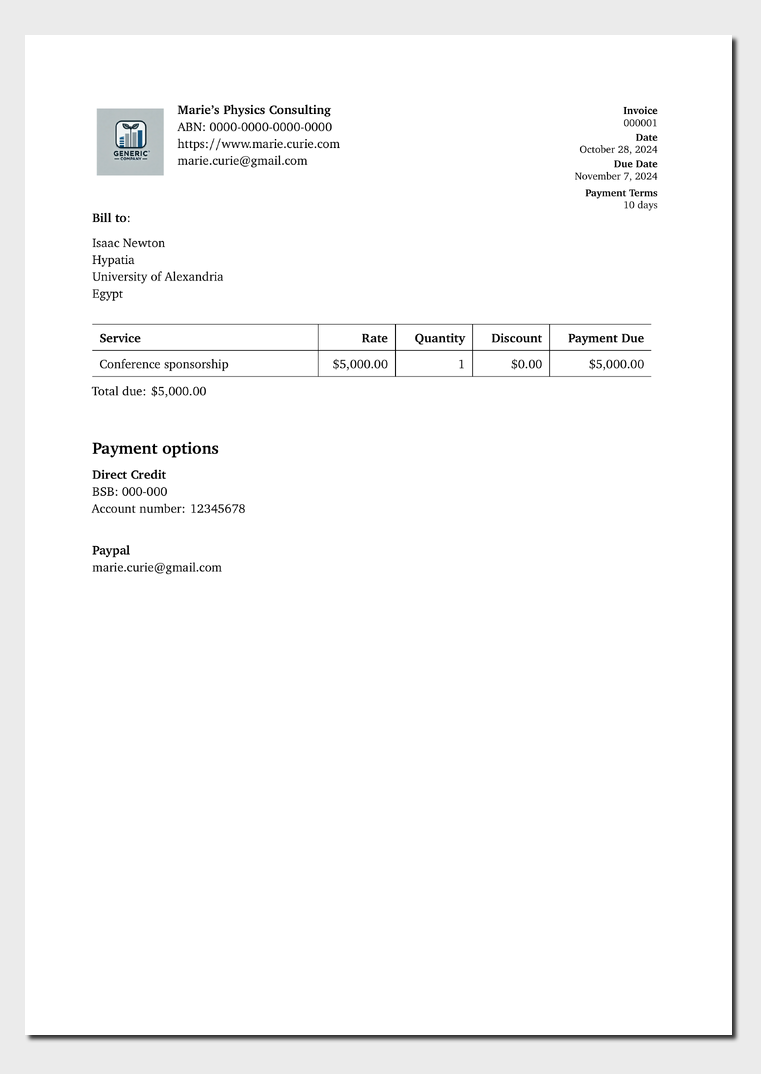
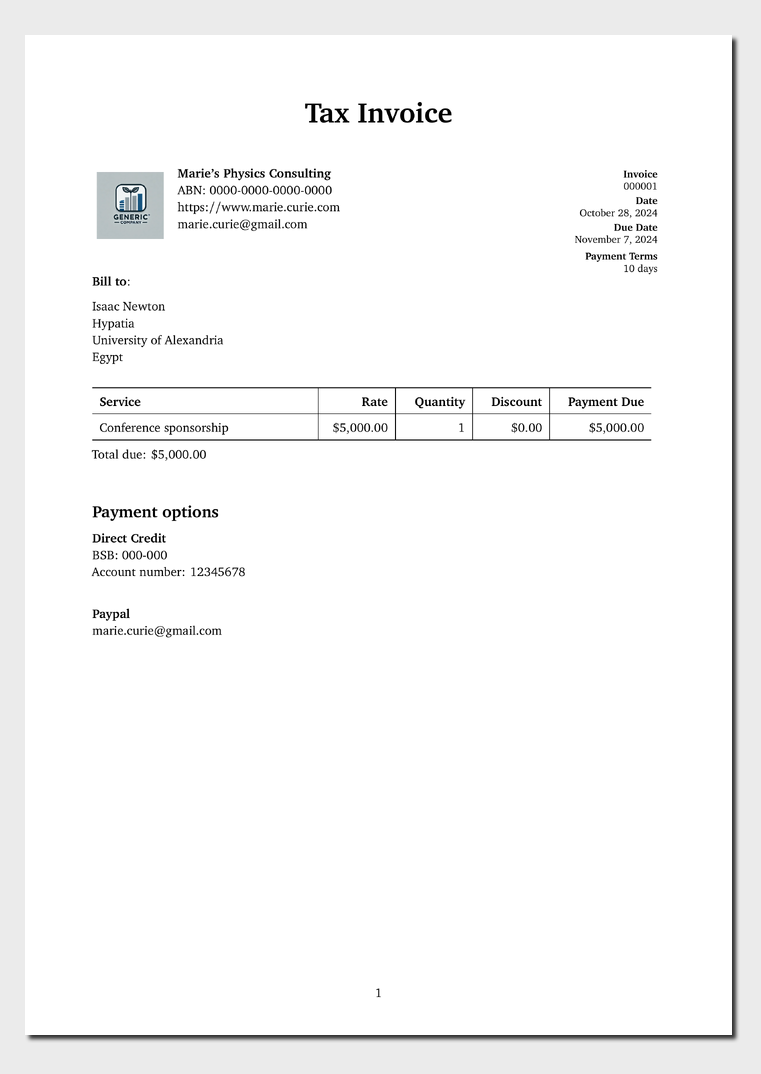
Add title to invoice

Changed region(s): [[0.1209, 0.0922, 0.6045, 0.6145], [0.3929, 0.3073, 0.8463, 0.4302], [0.7556, 0.0922, 0.8765, 0.2765]]

diff --git a/template.tex b/template.tex
@@ -1,0 +1,241 @@
+% Options for packages loaded elsewhere
+\PassOptionsToPackage{unicode}{hyperref}
+\PassOptionsToPackage{hyphens}{url}
+\PassOptionsToPackage{dvipsnames,svgnames,x11names}{xcolor}
+%
+\documentclass[
+  11pt,
+  a4paper,
+]{letter}
+
+\usepackage{amsmath,amssymb}
+\usepackage{iftex}
+\ifPDFTeX
+  \usepackage[T1]{fontenc}
+  \usepackage[utf8]{inputenc}
+  \usepackage{textcomp} % provide euro and other symbols
+\else % if luatex or xetex
+  \usepackage{unicode-math}
+  \defaultfontfeatures{Scale=MatchLowercase}
+  \defaultfontfeatures[\rmfamily]{Ligatures=TeX,Scale=1}
+\fi
+\usepackage{lmodern}
+\ifPDFTeX\else  
+    % xetex/luatex font selection
+\fi
+% Use upquote if available, for straight quotes in verbatim environments
+\IfFileExists{upquote.sty}{\usepackage{upquote}}{}
+\IfFileExists{microtype.sty}{% use microtype if available
+  \usepackage[]{microtype}
+  \UseMicrotypeSet[protrusion]{basicmath} % disable protrusion for tt fonts
+}{}
+\makeatletter
+\@ifundefined{KOMAClassName}{% if non-KOMA class
+  \IfFileExists{parskip.sty}{%
+    \usepackage{parskip}
+  }{% else
+    \setlength{\parindent}{0pt}
+    \setlength{\parskip}{6pt plus 2pt minus 1pt}}
+}{% if KOMA class
+  \KOMAoptions{parskip=half}}
+\makeatother
+\usepackage{xcolor}
+\usepackage[top=2cm,bottom=2cm,left=2cm,right=2cm]{geometry}
+\setlength{\emergencystretch}{3em} % prevent overfull lines
+\setcounter{secnumdepth}{-\maxdimen} % remove section numbering
+% Make \paragraph and \subparagraph free-standing
+\ifx\paragraph\undefined\else
+  \let\oldparagraph\paragraph
+  \renewcommand{\paragraph}[1]{\oldparagraph{#1}\mbox{}}
+\fi
+\ifx\subparagraph\undefined\else
+  \let\oldsubparagraph\subparagraph
+  \renewcommand{\subparagraph}[1]{\oldsubparagraph{#1}\mbox{}}
+\fi
+
+
+\providecommand{\tightlist}{%
+  \setlength{\itemsep}{0pt}\setlength{\parskip}{0pt}}\usepackage{longtable,booktabs,array}
+\usepackage{calc} % for calculating minipage widths
+% Correct order of tables after \paragraph or \subparagraph
+\usepackage{etoolbox}
+\makeatletter
+\patchcmd\longtable{\par}{\if@noskipsec\mbox{}\fi\par}{}{}
+\makeatother
+% Allow footnotes in longtable head/foot
+\IfFileExists{footnotehyper.sty}{\usepackage{footnotehyper}}{\usepackage{footnote}}
+\makesavenoteenv{longtable}
+\usepackage{graphicx}
+\makeatletter
+\def\maxwidth{\ifdim\Gin@nat@width>\linewidth\linewidth\else\Gin@nat@width\fi}
+\def\maxheight{\ifdim\Gin@nat@height>\textheight\textheight\else\Gin@nat@height\fi}
+\makeatother
+% Scale images if necessary, so that they will not overflow the page
+% margins by default, and it is still possible to overwrite the defaults
+% using explicit options in \includegraphics[width, height, ...]{}
+\setkeys{Gin}{width=\maxwidth,height=\maxheight,keepaspectratio}
+% Set default figure placement to htbp
+\makeatletter
+\def\fps@figure{htbp}
+\makeatother
+
+\usepackage{booktabs}
+\usepackage{longtable}
+\usepackage{array}
+\usepackage{multirow}
+\usepackage{wrapfig}
+\usepackage{float}
+\usepackage{colortbl}
+\usepackage{pdflscape}
+\usepackage{tabu}
+\usepackage{threeparttable}
+\usepackage{threeparttablex}
+\usepackage[normalem]{ulem}
+\usepackage{makecell}
+\usepackage{xcolor}
+\makeatletter
+\@ifpackageloaded{caption}{}{\usepackage{caption}}
+\AtBeginDocument{%
+\ifdefined\contentsname
+  \renewcommand*\contentsname{Table of contents}
+\else
+  \newcommand\contentsname{Table of contents}
+\fi
+\ifdefined\listfigurename
+  \renewcommand*\listfigurename{List of Figures}
+\else
+  \newcommand\listfigurename{List of Figures}
+\fi
+\ifdefined\listtablename
+  \renewcommand*\listtablename{List of Tables}
+\else
+  \newcommand\listtablename{List of Tables}
+\fi
+\ifdefined\figurename
+  \renewcommand*\figurename{Figure}
+\else
+  \newcommand\figurename{Figure}
+\fi
+\ifdefined\tablename
+  \renewcommand*\tablename{Table}
+\else
+  \newcommand\tablename{Table}
+\fi
+}
+\@ifpackageloaded{float}{}{\usepackage{float}}
+\floatstyle{ruled}
+\@ifundefined{c@chapter}{\newfloat{codelisting}{h}{lop}}{\newfloat{codelisting}{h}{lop}[chapter]}
+\floatname{codelisting}{Listing}
+\newcommand*\listoflistings{\listof{codelisting}{List of Listings}}
+\makeatother
+\makeatletter
+\makeatother
+\makeatletter
+\@ifpackageloaded{caption}{}{\usepackage{caption}}
+\@ifpackageloaded{subcaption}{}{\usepackage{subcaption}}
+\makeatother
+\ifLuaTeX
+  \usepackage{selnolig}  % disable illegal ligatures
+\fi
+\usepackage{bookmark}
+
+\IfFileExists{xurl.sty}{\usepackage{xurl}}{} % add URL line breaks if available
+\urlstyle{same} % disable monospaced font for URLs
+\hypersetup{
+  pdftitle={Tax Invoice},
+  colorlinks=true,
+  linkcolor={blue},
+  filecolor={Maroon},
+  citecolor={Blue},
+  urlcolor={Blue},
+  pdfcreator={LaTeX via pandoc}}
+
+% LaTeX Simple Invoice Template
+% By Amy Fare | amyfare.ca
+% Source: amyfare.ca/files/simple_invoice_template.tex
+% License: Creative Commons Attribution (CC BY 4.0)
+% Feel free to distribute, modify, and use as you wish, but please keep this line and the 4 lines above unchanged.
+
+\usepackage[utf8]{inputenc}
+\usepackage{graphicx}
+\usepackage{tabularx}
+\usepackage{multirow}
+\usepackage{ragged2e}
+\usepackage{hhline}
+\usepackage{array}
+
+\usepackage{bera,fontawesome}
+\usepackage[charter]{mathdesign}
+\usepackage[lf,t]{FiraSans}
+\usepackage[scale=0.9]{sourcecodepro}
+
+\hypersetup{
+    urlcolor=blue
+}
+
+\newcolumntype{R}[1]{>{\raggedleft\let\newline\\\arraybackslash\hspace{0pt}}m{#1}}
+
+\usepackage{advdate}
+
+
+\newcommand{\Sum}[2]{\the\numexpr #1 + #2 \relax \\}\title{Tax Invoice}
+\author{}
+\date{October 28, 2024}
+
+\begin{document}
+\thispagestyle{empty}
+
+% Header, for company, invoice info
+\begin{tabularx}{\textwidth}{l X l}
+   \hspace{-8pt} \multirow{5}{*}{
+    } & \textbf{Marie's Physics
+Consulting} & \hskip12pt\multirow{5}{*}{\begin{tabular}{r}\footnotesize\bf Invoice \\[-0.8ex] \footnotesize 000001 \\[-0.4ex] \footnotesize\bf Date \\[-0.8ex] \footnotesize {October
+28, 2024} \\[-0.4ex]
+    \footnotesize\bf Due Date \\[-0.8ex] \footnotesize
+    \AdvanceDate[10]\today \\
+    \footnotesize\bf Payment Terms \\[-0.8ex] \footnotesize 
+                10
+         
+                days
+         \\ [-0.4ex]
+     \end{tabular}}\hspace{-6pt} \\
+   & ABN: 0000-0000-0000-0000 & \\
+   & https://www.marie.curie.com & \\
+   & marie.curie@gmail.com & \\
+\end{tabularx} 
+
+\vspace{1 cm}
+
+\textbf{Bill to}: 
+
+Isaac Newton \\
+Hypatia \\
+University of Alexandria \\
+Egypt \\
+
+\renewcommand{\arraystretch}{1.5}
+
+\begin{tabular}{>{\raggedright\arraybackslash}p{17em}|>{\raggedleft\arraybackslash}p{5em}|>{\raggedleft\arraybackslash}p{5em}|>{\raggedleft\arraybackslash}p{5em}|>{\raggedleft\arraybackslash}p{7em}}
+\hline
+\textbf{Service} & \textbf{Rate} & \textbf{Quantity} & \textbf{Discount} & \textbf{Payment Due}\\
+\hline
+Conference sponsorship & \$5,000.00 & 1 & \$0.00 & \$5,000.00\\
+\hline
+\end{tabular}
+
+Total due: \$5,000.00
+
+
+
+\vspace{1cm}
+
+\Large\textbf{Payment options}\normalsize
+
+\textbf{Direct Credit} \\
+BSB: 000-000 \\
+Account number: 12345678 \\
+
+\textbf{Paypal} \\
+marie.curie@gmail.com \\
+
+\end{document}

diff --git a/_extensions/invoice/before-body.tex b/_extensions/invoice/before-body.tex
@@ -1,4 +1,10 @@
-\thispagestyle{empty}
+% \thispagestyle{empty}
+
+\begin{center}
+{\Huge \textbf{$title$}}
+\end{center}
+
+\vspace{1cm}
 
 % Header, for company, invoice info
 \begin{tabularx}{\textwidth}{l X l}

diff --git a/_extensions/invoice/before-title.tex b/_extensions/invoice/before-title.tex
@@ -27,3 +27,5 @@
 
 
 \newcommand{\Sum}[2]{\the\numexpr #1 + #2 \relax \\}
+
+\title{$title$}

diff --git a/_extensions/invoice/title.tex b/_extensions/invoice/title.tex
@@ -1,0 +1,1 @@
+\maketitle
